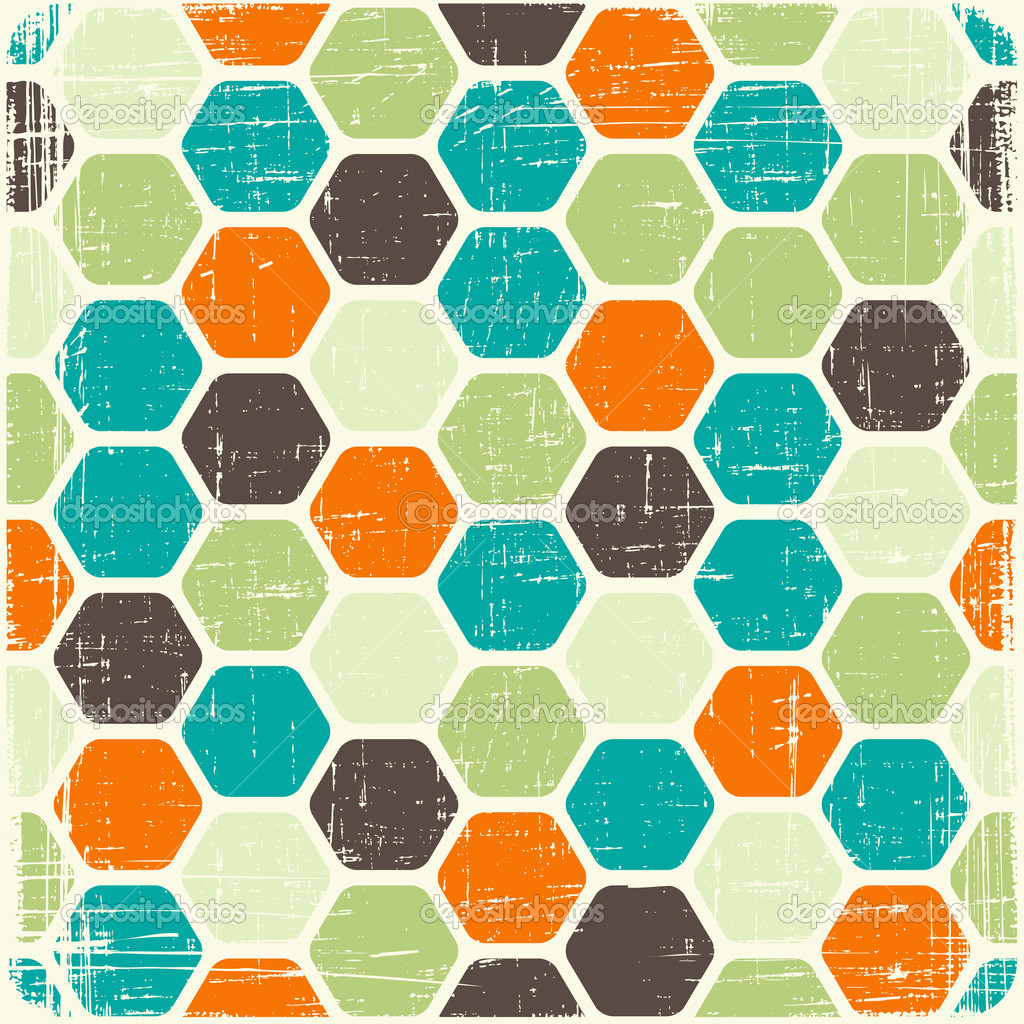
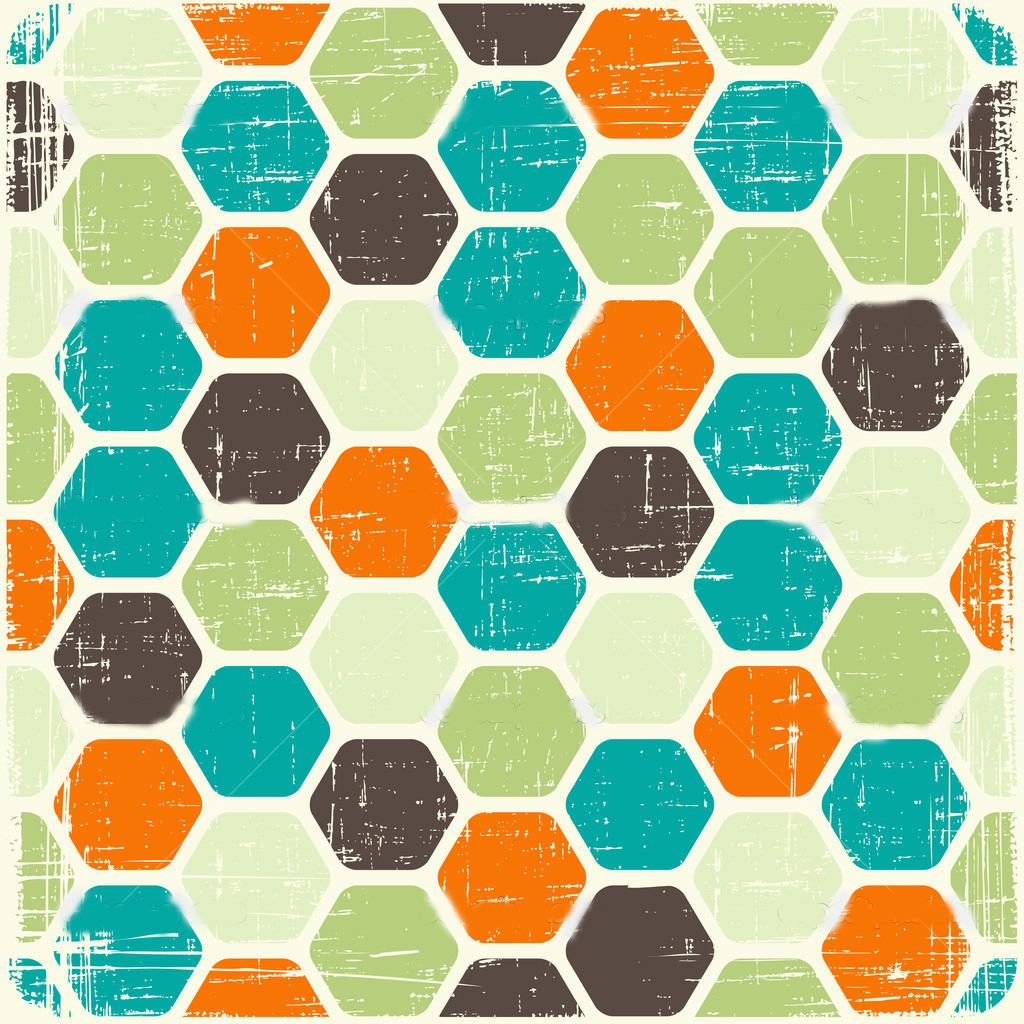
FIX: Fixed Admin Control Panel Design, and Fixed the Background Watermarks. ADD: Added a container for the Button in Admin Panel.

diff --git a/public/bootstrap/css/bootstrap.css b/public/bootstrap/css/bootstrap.css
@@ -2177,7 +2177,7 @@ table th[class*="span"],
 .table td.span3,
 .table th.span3 {
   float: none;
-  width: 204px;
+  width: 24%;
   margin-left: 0;
 }
 
@@ -6173,6 +6173,31 @@ a.badge:focus {
   position:block;
   background-image: url("../img/quizmain.png");
   background-size: 100% 100%;
+}
+
+.iconpreg {
+  width: 80px;
+  height: 75px;
+  margin:0 auto;
+  position:block;
+  background-image: url("../img/quizpreg.png");
+  background-size: 100% 100%;
+}
+
+.iconrcans {
+  width: 80px;
+  height: 75px;
+  margin:0 auto;
+  position:block;
+  background-image: url("../img/rcanswer.png");
+  background-size: 100% 100%;
+}
+
+.estonline {
+  padding: 10px;
+  background-image: url("../img/online.png");
+  width:10px;
+  height:10px;
 }
 
 @media screen and (max-width: 400px){
